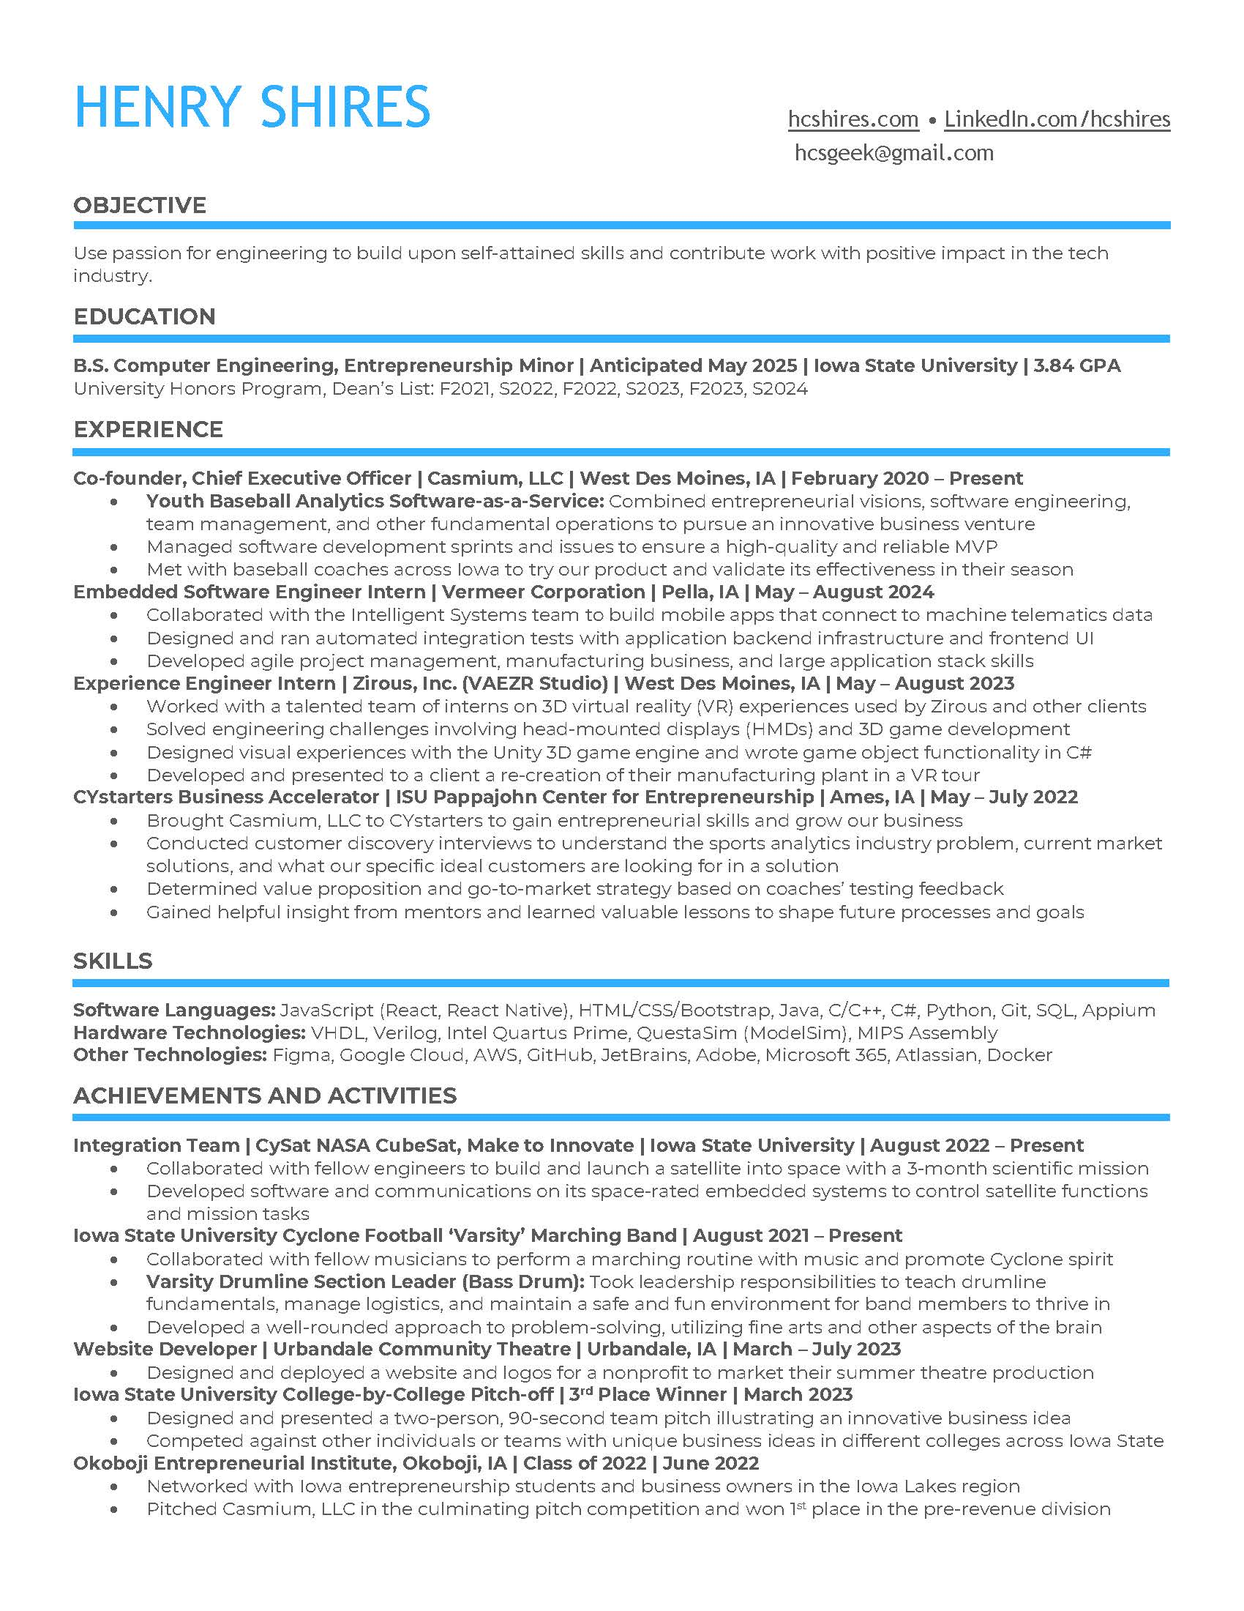
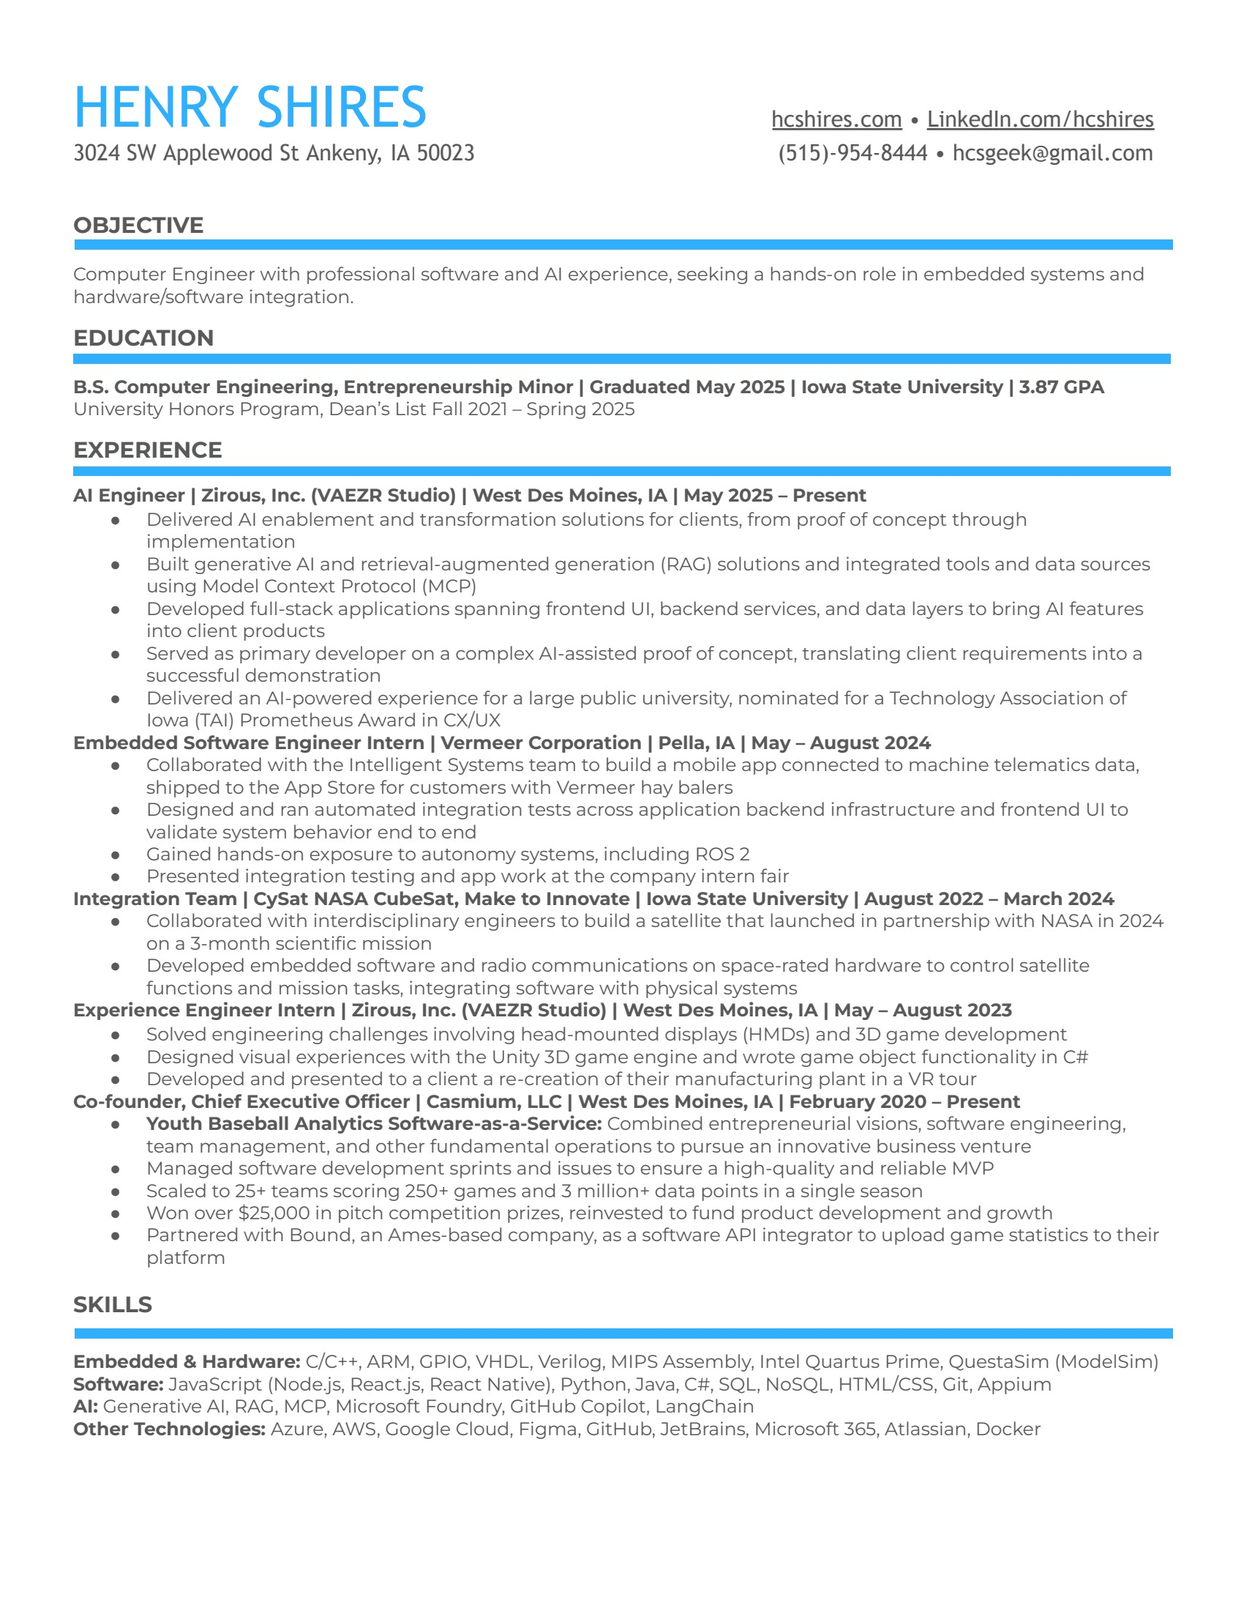
2026 Content Part 2

Changed region(s): [[0.0624, 0.0309, 0.9353, 0.9273]]

diff --git a/experience.html b/experience.html
@@ -134,6 +134,11 @@
                                     strategy improvement, a streamlined process for collecting team-original game data,
                                     play-by-play and overview data sets,
                                     and full technical support provided to every Casmium member.</p>
+                                <p>Casmium has scaled to 25+ teams scoring 250+ games and 3 million+ data points in a
+                                    single season. We have won over $25,000 in pitch competition prizes, which we
+                                    reinvested into product development and growth, and partnered with Bound, an
+                                    Ames-based company, as a software API integrator to upload game statistics to their
+                                    platform.</p>
                                 <button onclick="window.open('https://casmium.com', '_blank');"
                                     class="btn btn-outline-primary hvr-sweep-to-right-blue">Learn about Casmium</button>
                             </div>
@@ -147,16 +152,25 @@
                         </div>
                         <div class="col-md-7">
                             <div class="card-body">
-                                <h2 class="card-title">Application Developer - Zirous, Inc.</h2>
+                                <h2 class="card-title">AI Engineer - Zirous, Inc.</h2>
                                 <h5 style="color: #2fafff; font-weight: bold;">May 2025 - Present</h5>
-                                <p>I have returned to Zirous full-time as an application developer working on software
-                                    for both clients and internal operations.</p>
+                                <p>I returned to Zirous full-time as an AI Engineer, delivering AI enablement and
+                                    transformation solutions for clients from proof of concept through implementation. I
+                                    build generative AI and retrieval-augmented generation (RAG) solutions, integrate
+                                    tools and data sources using Model Context Protocol (MCP), and develop full-stack
+                                    applications spanning frontend UI, backend services, and data layers to bring AI
+                                    features into client products. I served as primary developer on a complex
+                                    AI-assisted proof of concept, translating client requirements into a successful
+                                    demonstration, and delivered an AI-powered experience for a large public university
+                                    that was nominated for a Technology Association of Iowa (TAI) Prometheus Award in
+                                    CX/UX.</p>
                                 <p class="text-start" style="color: #2fafff; font-weight: bold;">Technical
                                     Specifications
                                 </p>
                                 <ul class="text-start">
+                                    <li>Skills: Generative AI, RAG, MCP, Microsoft Foundry, GitHub Copilot, LangChain</li>
                                     <li>Experiences: Consulting and client requirements gathering, design thinking,
-                                        software engineering</li>
+                                        full-stack software engineering, AI solution delivery</li>
                                 </ul>
                                 <button onclick="window.open('https://zirous.com', '_blank');"
                                     class="btn btn-outline-primary hvr-sweep-to-right-blue">Learn about Zirous
@@ -174,24 +188,58 @@
                             <div class="card-body">
                                 <h2 class="card-title">Embedded Software Engineer Intern - Vermeer Corporation</h2>
                                 <h5 style="color: #2fafff; font-weight: bold;">May - August 2024</h5>
-                                <p>At Vermeer, I worked with the Intelligent Systems team to build mobile apps that
-                                    interface with various Vermeer equipment. I also utilized
-                                    automated testing frameworks and a local database environment to end-to-end UI test
-                                    applications. I got experience building software in a large company and learned how
-                                    software engineering fits into the manufacturing business. I also got experience
-                                    using Agile and Scrum project management strategies.</p>
+                                <p>At Vermeer, I worked with the Intelligent Systems team to build a mobile app
+                                    connected to machine telematics data, shipped to the App Store for customers with
+                                    Vermeer hay balers. I designed and ran automated integration tests across the
+                                    application backend infrastructure and frontend UI, using automated testing
+                                    frameworks and a local database environment to validate system behavior end to end.
+                                    I also gained hands-on exposure to autonomy systems, including ROS 2, and presented
+                                    my integration testing and app work at the company intern fair. I got experience
+                                    building software in a large company, learned how software engineering fits into
+                                    the manufacturing business, and used Agile and Scrum project management
+                                    strategies.</p>
                                 <p class="text-start" style="color: #2fafff; font-weight: bold;">Technical
                                     Specifications
                                 </p>
                                 <ul class="text-start">
                                     <li>Skills: .NET MAUI, Appium, C#, NUnit, End-to-end Testing, Microsoft Azure,
-                                        PostgreSQL, Docker</li>
+                                        PostgreSQL, Docker, ROS 2</li>
                                     <li>Experiences: Agile project management, manufacturing business skills,
                                         continuous improvement, large application tech stacks</li>
                                 </ul>
                                 <button type="button" class="btn btn-outline-primary hvr-sweep-to-right-blue"
                                     onclick="window.open('https://www.vermeer.com/', '_blank');">Read
                                     More</button>
+                            </div>
+                        </div>
+                    </div>
+                </div>
+                <div id="cysat" class="card mb-3">
+                    <div class="row g-0 justify-content-around align-items-center">
+                        <div class="col-md-4">
+                            <img class="img-fluid card-image" src="./assets/images/cysat.jpg">
+                        </div>
+                        <div class="col-md-7">
+                            <div class="card-body">
+                                <h2 class="card-title">Integration Team - CySat NASA CubeSat (Make to Innovate)</h2>
+                                <h4 style="font-weight: bold;">Iowa State University</h4>
+                                <h5 style="color: #2fafff; font-weight: bold;">August 2022 - March 2024</h5>
+                                <p>I collaborated with interdisciplinary engineers to build a satellite that launched
+                                    in partnership with NASA in 2024 on a 3-month scientific mission. I developed
+                                    embedded software and radio communications on space-rated hardware to control
+                                    satellite functions and mission tasks, integrating software with physical
+                                    systems.</p>
+                                <p class="text-start" style="color: #2fafff; font-weight: bold;">Technical
+                                    Specifications
+                                </p>
+                                <ul class="text-start">
+                                    <li>Skills: C, Python, STM32, software-defined radio, GNU Radio, AX.25 packets</li>
+                                    <li>Experiences: Interdisciplinary collaboration, embedded systems, hardware/software
+                                        integration</li>
+                                </ul>
+                                <button type="button" class="btn btn-outline-primary hvr-sweep-to-right-blue"
+                                    onclick="window.open('./projects/engineering.html#cysat', '_self');">View Project
+                                    Details</button>
                             </div>
                         </div>
                     </div>
@@ -244,10 +292,10 @@
                         </div>
                         <div class="col-md-7">
                             <div class="card-body">
-                                <h2 class="card-title"><em>CYstarters</em> - Iowa State University Business Accelerator
+                                <h2 class="card-title"><em>CYstarters</em> - Iowa State University Business Accelerator &amp; Pitch Competitions
                                 </h2>
                                 <h4 style="font-weight: bold;">Casmium, LLC</h4>
-                                <h5 style="color: #2fafff; font-weight: bold;">May-August 2022</h5>
+                                <h5 style="color: #2fafff; font-weight: bold;">May 2022 - March 2023</h5>
                                 <p>In spring of 2022, one of my co-founders of Casmium, LLC, Pradyumna Dahal, and I were
                                     accepted into the ISU Pappajohn Center for Entrepreneurship's CYstarter Summer
                                     Accelerator program: An 11-week bootcamp geared to giving students time, funding,
@@ -261,7 +309,7 @@
                                     how to most effectively market our product to our ideal customer and learned about
                                     the CYstarters opportunity. Our final business pitch was a success and our company
                                     gained an abundance of marketing and customer engagement strategies as well as
-                                    additional network connections and beta testers.</p>
+                                    additional network connections and beta testers. I conducted customer discovery interviews to translate customer needs into clear product requirements, and we later pitched Casmium to the Okoboji Entrepreneurial Institute (2022) and the ISU College-by-College Pitch-off (2023).</p>
                                 <p class="text-start" style="color: #2fafff; font-weight: bold;">Technical
                                     Specifications
                                 </p>
@@ -320,11 +368,11 @@
                         </div>
                         <div class="col-md-7">
                             <div class="card-body">
-                                <h2 class="card-title">Bachelor of Science, Computer
-                                    Engineering<br />Iowa State University</h2>
-                                <h5 style="color: #2fafff; font-weight: bold;">August 2021 - Present</h5>
+                                <h2 class="card-title">Bachelor of Science, Computer Engineering<br />Entrepreneurship Minor<br />Iowa State University</h2>
+                                <h5 style="color: #2fafff; font-weight: bold;">August 2021 - May 2025</h5>
+                                <p>Graduated May 2025 with a 3.87 GPA. Dean's List Fall 2021 - Spring 2025.</p>
                                 <p>Activities and Societies: University Honors Program,
-                                    ISU Cyclone Football "Varsity" Marching Band</p>
+                                    ISU Cyclone Football "Varsity" Marching Band, Basketball Pep Band</p>
                             </div>
                         </div>
                     </div>

diff --git a/index.html b/index.html
@@ -146,12 +146,12 @@
             <div class="order-2 order-md-1 col-10 col-md-5 ld ld-throw-ltr-in">
                 <h1 style="color: #2FAFFF !important; margin-top: 10px;">Hello,<br />I'm<strong> Henry
                         Shires</strong><br />><span class="blink" style="color: white;">_</span></h1>
-                <h4 style="margin: 20px 0px;">I'm a graduating Computer Engineer invested in all
+                <h4 style="margin: 20px 0px;">I'm a Computer Engineer with professional software and AI experience, invested in all
                     things technology with the goal to help change the world by bringing people and technology together.
-                    As a partial owner of a sports tech startup, I've hit the ground sprinting to solve problems in my
+                    As co-founder and CEO of a sports tech startup, I've hit the ground sprinting to solve problems in my
                     local
-                    community with my talented co-founders. And when I'm not in the lab or working on my business,
-                    I'm most likely making grooves with my buddies in the drumline.</h4>
+                    community with my talented co-founders. And when I'm not building AI solutions or working on my business,
+                    I'm most likely making grooves on the drum set or filming and editing photo and video.</h4>
                 <button type="button" class="btn btn-outline-primary hvr-sweep-to-right-blue"
                     onclick="window.location.href='#contact';">Contact Me</button>
             </div>
@@ -175,7 +175,7 @@
                             <p class="card-text">My background consists of both software and hardware engineering
                                 experiences, including work with electronic circuits and oscilloscopes, embedded systems
                                 and assembly-level programming, high-level web applications, frontend UI design
-                                with CSS and dynamic rendering frameworks, and RESTful API implementation
+                                with CSS and dynamic rendering frameworks, RESTful API implementation, and generative AI solutions built with RAG and MCP
                             </p>
                         </div>
                         <button type="button" class="btn btn-outline-primary hvr-sweep-to-right-blue"
@@ -253,9 +253,7 @@
                                     for and made the ISU Drumline, a section of the Iowa State University
                                     Cyclone Football "Varsity" Marching Band (ISUCF'V'MB, see my <a
                                         href="./activities.html">Activities page</a> for more). This group has
-                                    significantly shaped my identity as a Cyclone and I can't wait to continue
-                                    my
-                                    membership for the remainder of my college experience.
+                                    significantly shaped my identity as a Cyclone and I was proud to be a member through my final season before graduating in May 2025.
                                 </p>
                             </div>
                             <div class="col-md-4">
@@ -274,7 +272,7 @@
                                     project management skills such as organizing and distributing tasks,
                                     monitoring
                                     progress, and keeping an eye on the end goal. And of course, I have several
-                                    years of software engineering under my belt. See my resume for all of my
+                                    years of software engineering and AI experience under my belt. See my resume for all of my
                                     skills or follow me on LinkedIn.
                                 </p>
                             </div>
@@ -320,7 +318,7 @@
                                     collaborative projects and achievements in school, I can maximize my
                                     contributions to my goal of improving the human condition through technology
                                     at
-                                    my current stage in life, long before I achieve a degree. I desire to make a
+                                    every stage of my career. I desire to make a
                                     positive impact through innovative products in a small company to run my
                                     successful one. Shortly, I hope to continue seeking out opportunities to use
                                     my

diff --git a/projects/engineering.html b/projects/engineering.html
@@ -134,7 +134,7 @@
                                     Casmium sets itself apart from competitors. With a mission to democratize sports
                                     statistics, Casmium is on track to transform the industry, already working with
                                     central Iowa high school teams and little league teams across Iowa, Colorado, and
-                                    Georgia, while projecting significant growth in the near future.
+                                    Georgia, scaling to 25+ teams scoring 250+ games and 3 million+ data points in a single season. Casmium has also won over $25,000 in pitch competition prizes, reinvested into product development and growth, and partnered with Bound, an Ames-based company, as a software API integrator to upload game statistics to their platform.
                                 </p>
                                 <p class="text-start" style="color: #2fafff; font-weight: bold;">Technical
                                     Specifications
@@ -209,6 +209,24 @@
                         </div>
                     </div>
                 </div>
+                <div id="seniordesign" class="card mb-3">
+                    <div class="row g-0 justify-content-around align-items-center">
+                        <div class="col-md-7">
+                            <div class="card-body">
+                                <h2 class="card-title">Senior Design Capstone</h2>
+                                <h4 style="font-weight: bold;">Iowa State University</h4>
+                                <p>For my team capstone project, we built a system in which microcontrollers interface
+                                    with a web UI over TCP and HTTP.</p>
+                                <p class="text-start" style="color: #2fafff; font-weight: bold;">Technical
+                                    Specifications
+                                </p>
+                                <ul class="text-start">
+                                    <li>Technologies: Microcontrollers, TCP, HTTP, Web UI</li>
+                                </ul>
+                            </div>
+                        </div>
+                    </div>
+                </div>
                 <div id="mlframeworks" class="card mb-3">
                     <div class="row g-0 justify-content-around align-items-center">
                         <div class="col-md-4 flex-row">
@@ -218,10 +236,7 @@
                             <div class="card-body">
                                 <h2 class="card-title">Machine Learning Framework Analysis</h2>
                                 <h4 style="font-weight: bold;">CPR E 487 Final Project</h4>
-                                <p>My team and I explored various Machine Learning frameworks popular in the tech
-                                    industry. We compared and analyzed framework usability, model performance and
-                                    accuracy, and difficulty of implementing a simple convolutional neural network in
-                                    each. We additionally used this project to further our Machine Learning competency
+                                <p>My team and I designed a convolutional neural network (CNN) accelerator in VHDL, then benchmarked TensorFlow, PyTorch, and scikit-learn running the same network on it to determine which framework performed best. We compared and analyzed framework usability, model performance and accuracy, and difficulty of implementation. We additionally used this project to further our Machine Learning competency
                                     with various tools and model development concepts.
                                 </p>
                                 <p class="text-start" style="color: #2fafff; font-weight: bold;">Technical
@@ -329,7 +344,7 @@
                                     Specifications
                                 </p>
                                 <ul class="text-start">
-                                    <li>Project Duration: August 2022-August 2023</li>
+                                    <li>Project Duration: August 2022-March 2024</li>
                                     <li>Experiences: Collaboration with interdisciplinary engineers, hands-on embedded
                                         systems engineering</li>
                                     <li>Technologies: EnduroSat space-rated CubeSat hardware (Onboard Computer (OBC),

diff --git a/README.md b/README.md
@@ -1,2 +1,12 @@
 # hcshires.github.io
 My portfolio website for projects by Henry Shires
+
+## Running locally
+
+From the repository root, start a static file server with Python:
+
+```
+python -m http.server 8000 --bind 127.0.0.1
+```
+
+Then open http://127.0.0.1:8000/ in your browser.
